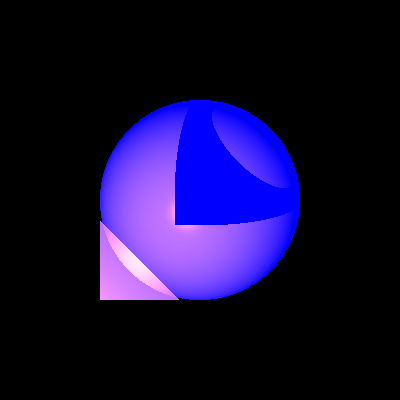
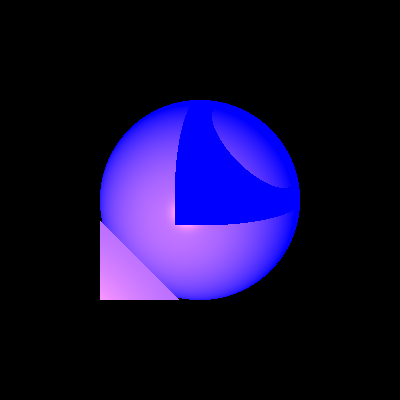
middle stage 7

Changed region(s): [[0.24, 0.57, 0.45, 0.75]]

diff --git a/src/renderer/SimpleRayTracer.java b/src/renderer/SimpleRayTracer.java
@@ -16,6 +16,8 @@ import scene.Scene;
 import java.util.List;
 import java.util.Objects;
 
+import static primitives.Util.alignZero;
+
 /**
  * Simple ray tracer class.
  * Inherits from {@link RayTracerBase} and provides basic ray tracing functionality.
@@ -24,6 +26,9 @@ public class SimpleRayTracer extends RayTracerBase {
 
 
     private static final double DELTA = 0.1;
+    private static final int MAX_CALC_COLOR_LEVEL = 10;
+    private static final double MIN_CALC_COLOR_K = 0.001;
+    private static final Double3 INITIAL_K = Double3.ONE;
 
     /**
      * Constructor to initialize the simple ray tracer with a given scene.
@@ -58,6 +63,16 @@ public class SimpleRayTracer extends RayTracerBase {
         return color;
     }
 
+    private Color calcColor(Intersectable.Intersection intersection, Ray ray, int level, Double3 k) {
+        Vector n = intersection.geometry.getNormal(intersection.point);
+        Vector v = ray.getDirection ();
+        double nv = alignZero(n.dotProduct(v));
+        if (nv == 0) return Color.BLACK;
+        Color color = scene.ambientLight.getIntensity()
+                .add(calcColorLocalEffects(intersection));
+        return 1 == level ? color : color.add(calcGlobalEffects(intersection, level, k));
+    }
+
     /**
      * Calculates the specular reflection component based on the Phong reflection model.
      *
@@ -69,14 +84,25 @@ public class SimpleRayTracer extends RayTracerBase {
         Vector n = intersection.normalAtPoint;
         Vector v = intersection.rayDirection;
 
-        double ln = Util.alignZero(l.dotProduct(n));
+        double ln = alignZero(l.dotProduct(n));
         if (ln == 0) return Double3.ZERO;
 
         Vector r = l.subtract(n.scale(2 * ln)).normalize();
-        double minusVR = -Util.alignZero(v.dotProduct(r));
+        double minusVR = -alignZero(v.dotProduct(r));
         if (minusVR <= 0) return Double3.ZERO;
 
         return intersection.material.kS.scale(Math.pow(minusVR, intersection.material.sh));
+    }
+
+    private Ray constructReflectedRay(Intersectable.Intersection intersection) {
+        Vector reflectedDir = incoming.subtract(normal.scale(2 * incoming.dotProduct(normal))).normalize();
+        Vector delta = normal.scale(incoming.dotProduct(normal) > 0 ? DELTA : -DELTA);
+        return new Ray(point.add(delta), reflectedDir);
+    }
+
+    private Ray constructRefractedRay(Intersectable.Intersection intersection) {
+        Vector delta = normal.scale(incoming.dotProduct(normal) > 0 ? DELTA : -DELTA);
+        return new Ray(point.add(delta), incoming);  // אותו כיוון, מניחים שקיפות ישרה
     }
 
     /**
@@ -87,9 +113,36 @@ public class SimpleRayTracer extends RayTracerBase {
      */
     private Double3 calcDiffusive(Intersectable.Intersection intersection){
         double nl = intersection.dotProductLightNormal;
-        double nlAbs = Math.abs(Util.alignZero(nl));
+        double nlAbs = Math.abs(alignZero(nl));
         return intersection.material.kD.scale(nlAbs);
     }
+    private Color calcLocalEffects(Intersectable.Intersection intersection) {
+        Color color = intersection.geometry.getEmission();
+
+        for (LightSource lightSource : scene.lights) {
+            if (!setLightSource(intersection, lightSource)) {
+                continue;
+            }
+
+            // תנאי הצללה: אם הנקודה בצל (עצם מסתיר), לא מוסיפים אור זה
+            if (!unshaded(intersection)) {
+                continue;
+            }
+
+            // חישוב עוצמת אור בנקודה
+            Color iL = lightSource.getIntensity(intersection.point);
+
+            // חישוב תרומת אור ישיר (דיפוזי + ספקולרי)
+            Double3 diff = calcDiffusive(intersection);
+            Double3 spec = calcSpecular(intersection);
+
+            // הוספה לצבע הכולל
+            color = color.add(iL.scale(diff.add(spec)));
+        }
+
+        return color;
+    }
+
 
     /**
      * Traces the given ray and calculates the color seen along the ray.
@@ -99,8 +152,6 @@ public class SimpleRayTracer extends RayTracerBase {
      */
     @Override
     public Color traceRay(Ray ray) {
-        // Find intersections between the ray and the geometries in the scene
-        List<Point> intersections = scene.geometries.findIntersections(ray);
 
         // Check if the scene has geometries
         if (Objects.equals(scene.geometries, new Geometries())) {
@@ -112,7 +163,7 @@ public class SimpleRayTracer extends RayTracerBase {
             return scene.background; // Return background color if no intersection
         }
 
-        Intersectable.Intersection closestIntersection = ray.findClosestIntersection(scene.geometries.calculateIntersections(ray));
+        Intersectable.Intersection closestIntersection = findClosestIntersection(ray);
 
         if (closestIntersection == null) {
             return scene.background; // Return background color if no intersection
@@ -122,6 +173,27 @@ public class SimpleRayTracer extends RayTracerBase {
         return calcColor(closestIntersection, ray);
     }
 
+    private Intersectable.Intersection findClosestIntersection(Ray ray) {
+        List<Intersectable.Intersection> intersections = scene.geometries.calculateIntersections(ray);
+        if (intersections == null || intersections.isEmpty()) {
+            return null;
+        }
+
+        double minDistance = Double.POSITIVE_INFINITY;
+        Intersectable.Intersection closestIntersection = null;
+
+        for (Intersectable.Intersection intersection : intersections) {
+            double distance = ray.getHead().distance(intersection.point);
+            if (distance < minDistance) {
+                minDistance = distance;
+                closestIntersection = intersection;
+            }
+        }
+
+        return closestIntersection;
+    }
+
+
     /**
      * Calculates the final color at the intersection point, including ambient and local lighting.
      *
@@ -130,15 +202,25 @@ public class SimpleRayTracer extends RayTracerBase {
      * @return the resulting color at the intersection point
      */
     private Color calcColor(Intersectable.Intersection intersection, Ray ray) {
-        // Initialize ray direction, normal, and dot product
-        if (!preprocessIntersection(intersection, ray.getDirection())) {
+        return calcColor(intersection, ray, MAX_CALC_COLOR_LEVEL, INITIAL_K)
+                .add(scene.ambientLight.getIntensity());
+    }
+    private Color calcGlobalEffect(Ray ray, Double3 kx, int level, Double3 k) {
+        // מכפלה של מקדמי ההנחתה: מה שהיה עד עכשיו כפול השקיפות/השתקפות של הקרן הנוכחית
+        Double3 kkx = kx.product(k);
+
+        // אם ההנחתה הכוללת נמוכה מהרף – אין טעם להמשיך לחשב, נחזיר שחור
+        if (kkx.lowerThan(MIN_CALC_COLOR_K)) {
             return Color.BLACK;
         }
 
-        return scene
-                .ambientLight.getIntensity().scale(intersection.geometry.getMaterial().kA)
-                .add(calcColorLocalEffects(intersection));
-    }
+        // מציאת נקודת החיתוך הקרובה ביותר
+        Intersectable.Intersection intersection = findClosestIntersection(ray);
+
+        // אם אין חיתוך – נחזיר צבע רקע
+        if (intersection == null) {
+            return scene.background;
+        }
 
     /**
      * Performs preprocessing on the intersection:
@@ -184,7 +266,6 @@ public class SimpleRayTracer extends RayTracerBase {
         return intersection.dotProductRayNormal * intersection.dotProductLightNormal > 0;
     }
 
-
     private boolean unshaded(Intersectable.Intersection intersection) {
         Vector l = intersection.lightDirection;
         Vector n = intersection.normalAtPoint;
@@ -202,11 +283,15 @@ public class SimpleRayTracer extends RayTracerBase {
 
         for (Intersectable.Intersection shadowIntersection : shadowIntersections) {
             if (shadowIntersection.point.distance(movedPoint) < lightDistance) {
-                return false;
+                Double3 ktr = shadowIntersection.material.kT;
+                if (ktr.lowerThan(MIN_CALC_COLOR_K)) {
+                    return false; // אור נחסם על ידי גוף כמעט אטום
+                }
             }
         }
 
-        return true;
+        return true; // לא נמצא גוף אטום דיו כדי לחסום את האור
     }
+
 
 }

diff --git a/src/primitives/Ray.java b/src/primitives/Ray.java
@@ -88,19 +88,17 @@ public class Ray {
         if (intersections == null) {
             return null;
         }
-
-        Intersection closest = null;
+        Point closestPoint = null;
         double minDistance = Double.POSITIVE_INFINITY;
-
         for (Intersection intersection : intersections) {
-            double distance = intersection.point.distance(head);
+            Point p = intersection.point;
+            double distance = p.distance(head);
             if (distance < minDistance) {
                 minDistance = distance;
-                closest = intersection;
+                closestPoint = p;
             }
         }
-
-        return closest;
+        return new Intersection(intersections.get(0).geometry, closestPoint);
     }
 
     /**

diff --git a/src/geometries/Material.java b/src/geometries/Material.java
@@ -8,6 +8,12 @@ import primitives.Double3;
  * as well as shininess factor for specular highlights.
  */
 public class Material {
+
+
+    public Double3 kT = Double3.ZERO;
+
+
+    public Double3 kR = Double3.ZERO;
     /**
      * Ambient reflection coefficient (kA), default is (1,1,1).
      */
